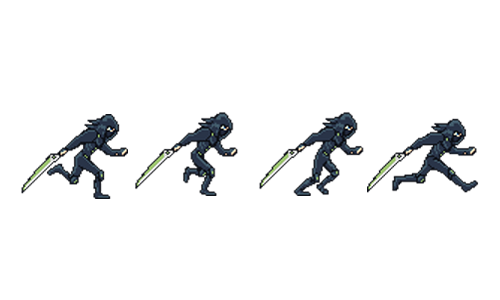
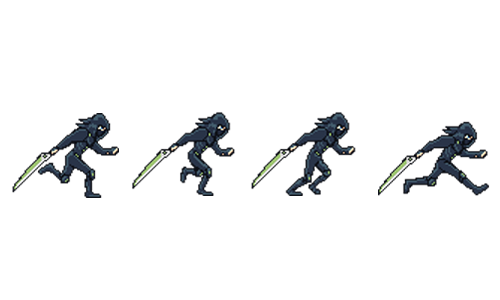
set origin

diff --git a/ninjaV2/main.cpp b/ninjaV2/main.cpp
@@ -3,14 +3,27 @@
 #include "Animation.h"
 #include "Player.h"
 
+static const float VIEW_HEIGHT = 512.0f;
+// set sprite on the centor //
+void ResizeView(const sf::RenderWindow& window, sf::View& view)
+{
+	float aspectRatio = float(window.getSize().x) / float(window.getSize().y);
+	view.setSize(VIEW_HEIGHT * aspectRatio, VIEW_HEIGHT);
+}
+
 int main()
 {
+	// window screen //
 	sf::RenderWindow window(sf::VideoMode(512, 512), "Bloody Sword", sf::Style::Close | sf::Style::Default);
-	sf::Texture playerTexture;
-	playerTexture.loadFromFile("animation/runrightv2.png");
+	sf::View view(sf::Vector2f(0.0f, 0.0f), sf::Vector2f(VIEW_HEIGHT, VIEW_HEIGHT));
 	
 
-	Player player(&playerTexture, sf::Vector2u(4, 3), 0.07f, 250.f);
+
+	sf::Texture playerTexture;
+	playerTexture.loadFromFile("animation/move.png");
+	
+
+	Player player(&playerTexture, sf::Vector2u(4, 2), 0.15f, 250.f);
 
 	float deltaTime = 0.0f;
 	sf::Clock clock;
@@ -27,12 +40,17 @@ int main()
 			case sf::Event::Closed:
 				window.close();
 				break;
+			case sf::Event::Resized:
+				ResizeView(window, view);
+				break;
 			}
 		}
 
 		player.Update(deltaTime);
+		view.setCenter(player.GetPosition());
 
 		window.clear(sf::Color(150, 150, 150));
+		window.setView(view);
 		player.Draw(window);
 		window.display();
 	}

diff --git a/ninjaV2/Player.cpp b/ninjaV2/Player.cpp
@@ -7,7 +7,8 @@ Player::Player(sf::Texture* texture, sf::Vector2u imageCount, float switchTime, 
 	row = 0;
 	faceRight = true;
 
-	body.setSize(sf::Vector2f(100.0f, 100.0f));
+	body.setSize(sf::Vector2f(100.0f, 120.0f));
+	body.setOrigin(body.getSize() / 2.0f);
 	body.setPosition(206.0f, 206.0f);
 	body.setTexture(texture);
 }

diff --git a/ninjaV2/Player.h b/ninjaV2/Player.h
@@ -11,6 +11,8 @@ public:
 	void Update(float deltaTime);
 	void Draw(sf::RenderWindow& window);
 
+	sf::Vector2f GetPosition() { return body.getPosition(); }
+
 private:
 	sf::RectangleShape body;
 	Animation animation;
